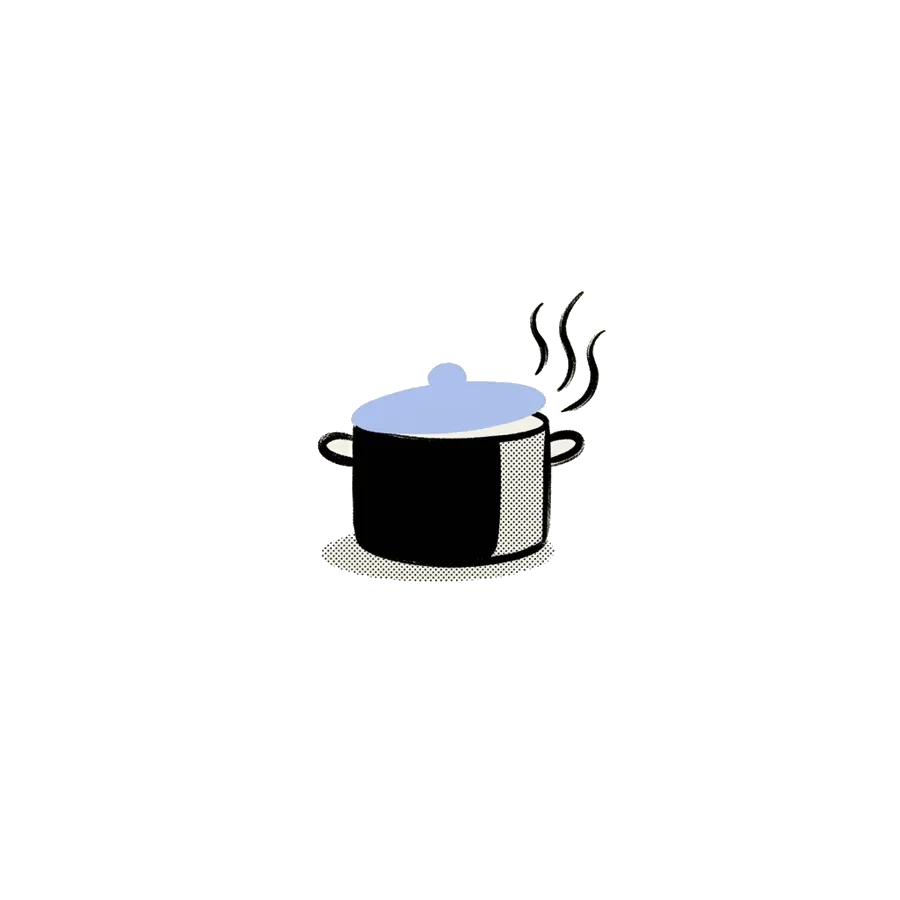
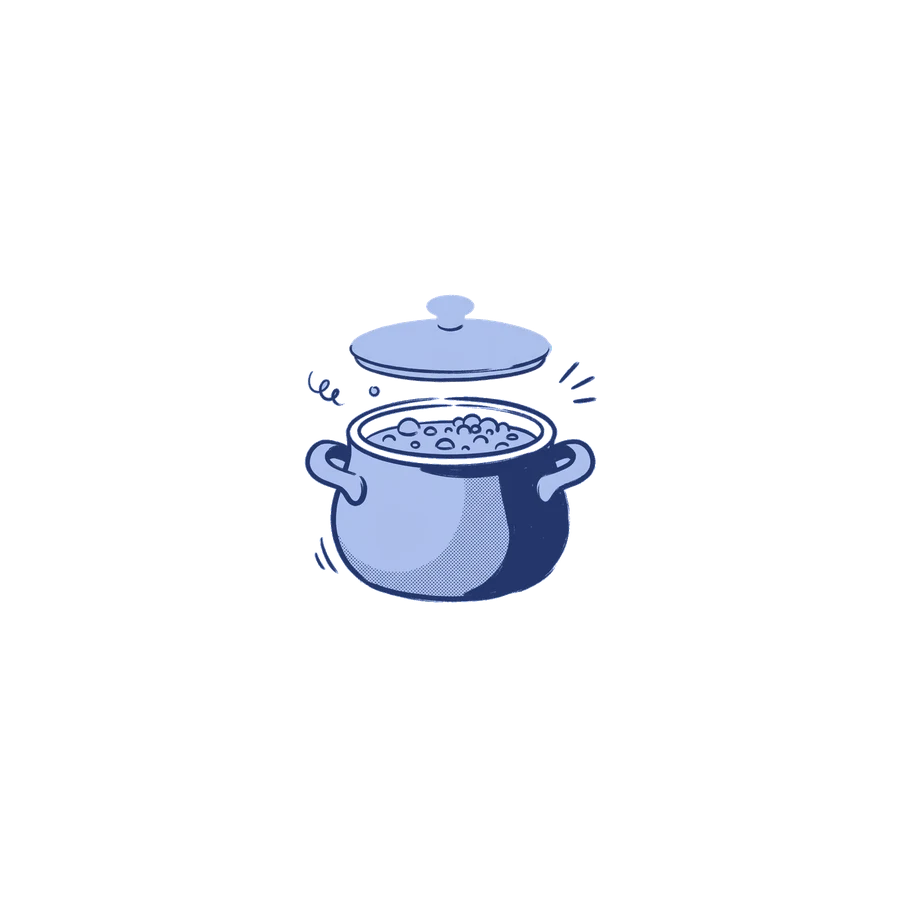
Mockup v8: neuer Topf ganz in Blau (Deckel getrennt, Tinte Dunkelblau #24366B), Dampf über dem Knauf

Changed region(s): [[0.3422, 0.3111, 0.6844, 0.6844]]

diff --git a/docs/ui/mockups/animationen-v8.html b/docs/ui/mockups/animationen-v8.html
@@ -136,7 +136,7 @@ img.ill{display:block}
 .potld .lid{z-index:3;transform-origin:30% 50%;animation:potld-lid 1.25s infinite}
 .potld .in{left:50px;top:6px;width:140px;z-index:1;opacity:0;animation:potld-hop 5s linear infinite;animation-delay:calc(var(--n) * 1.25s)}
 .potld .in:nth-of-type(even){--s:-1}.potld .in:nth-of-type(odd){--s:1}
-.potld .steam{position:absolute;left:150px;top:20px;width:60px;height:70px;z-index:4;fill:none;stroke:var(--ink);stroke-width:2.4;stroke-linecap:round}
+.potld .steam{position:absolute;left:90px;top:-36px;width:60px;height:70px;z-index:4;fill:none;stroke:#24366B;stroke-width:2.4;stroke-linecap:round}
 .potld .steam path{stroke-dasharray:60;stroke-dashoffset:60;animation:potld-steam 2.4s ease-in-out infinite}
 .potld .steam path:nth-child(2){animation-delay:.8s}.potld .steam path:nth-child(3){animation-delay:1.6s}
 @keyframes potld-breathe{50%{transform:scale(1.04)}}

diff --git a/docs/ui/mockups/redesign-v8-alle.html b/docs/ui/mockups/redesign-v8-alle.html
@@ -136,7 +136,7 @@ img.ill{display:block}
 .potld .lid{z-index:3;transform-origin:30% 50%;animation:potld-lid 1.25s infinite}
 .potld .in{left:50px;top:6px;width:140px;z-index:1;opacity:0;animation:potld-hop 5s linear infinite;animation-delay:calc(var(--n) * 1.25s)}
 .potld .in:nth-of-type(even){--s:-1}.potld .in:nth-of-type(odd){--s:1}
-.potld .steam{position:absolute;left:150px;top:20px;width:60px;height:70px;z-index:4;fill:none;stroke:var(--ink);stroke-width:2.4;stroke-linecap:round}
+.potld .steam{position:absolute;left:90px;top:-36px;width:60px;height:70px;z-index:4;fill:none;stroke:#24366B;stroke-width:2.4;stroke-linecap:round}
 .potld .steam path{stroke-dasharray:60;stroke-dashoffset:60;animation:potld-steam 2.4s ease-in-out infinite}
 .potld .steam path:nth-child(2){animation-delay:.8s}.potld .steam path:nth-child(3){animation-delay:1.6s}
 @keyframes potld-breathe{50%{transform:scale(1.04)}}

diff --git a/docs/ui/mockups/v8-parts/_extra.html b/docs/ui/mockups/v8-parts/_extra.html
@@ -38,7 +38,7 @@
 .potld .lid{z-index:3;transform-origin:30% 50%;animation:potld-lid 1.25s infinite}
 .potld .in{left:50px;top:6px;width:140px;z-index:1;opacity:0;animation:potld-hop 5s linear infinite;animation-delay:calc(var(--n) * 1.25s)}
 .potld .in:nth-of-type(even){--s:-1}.potld .in:nth-of-type(odd){--s:1}
-.potld .steam{position:absolute;left:150px;top:20px;width:60px;height:70px;z-index:4;fill:none;stroke:var(--ink);stroke-width:2.4;stroke-linecap:round}
+.potld .steam{position:absolute;left:90px;top:-36px;width:60px;height:70px;z-index:4;fill:none;stroke:#24366B;stroke-width:2.4;stroke-linecap:round}
 .potld .steam path{stroke-dasharray:60;stroke-dashoffset:60;animation:potld-steam 2.4s ease-in-out infinite}
 .potld .steam path:nth-child(2){animation-delay:.8s}.potld .steam path:nth-child(3){animation-delay:1.6s}
 @keyframes potld-breathe{50%{transform:scale(1.04)}}
